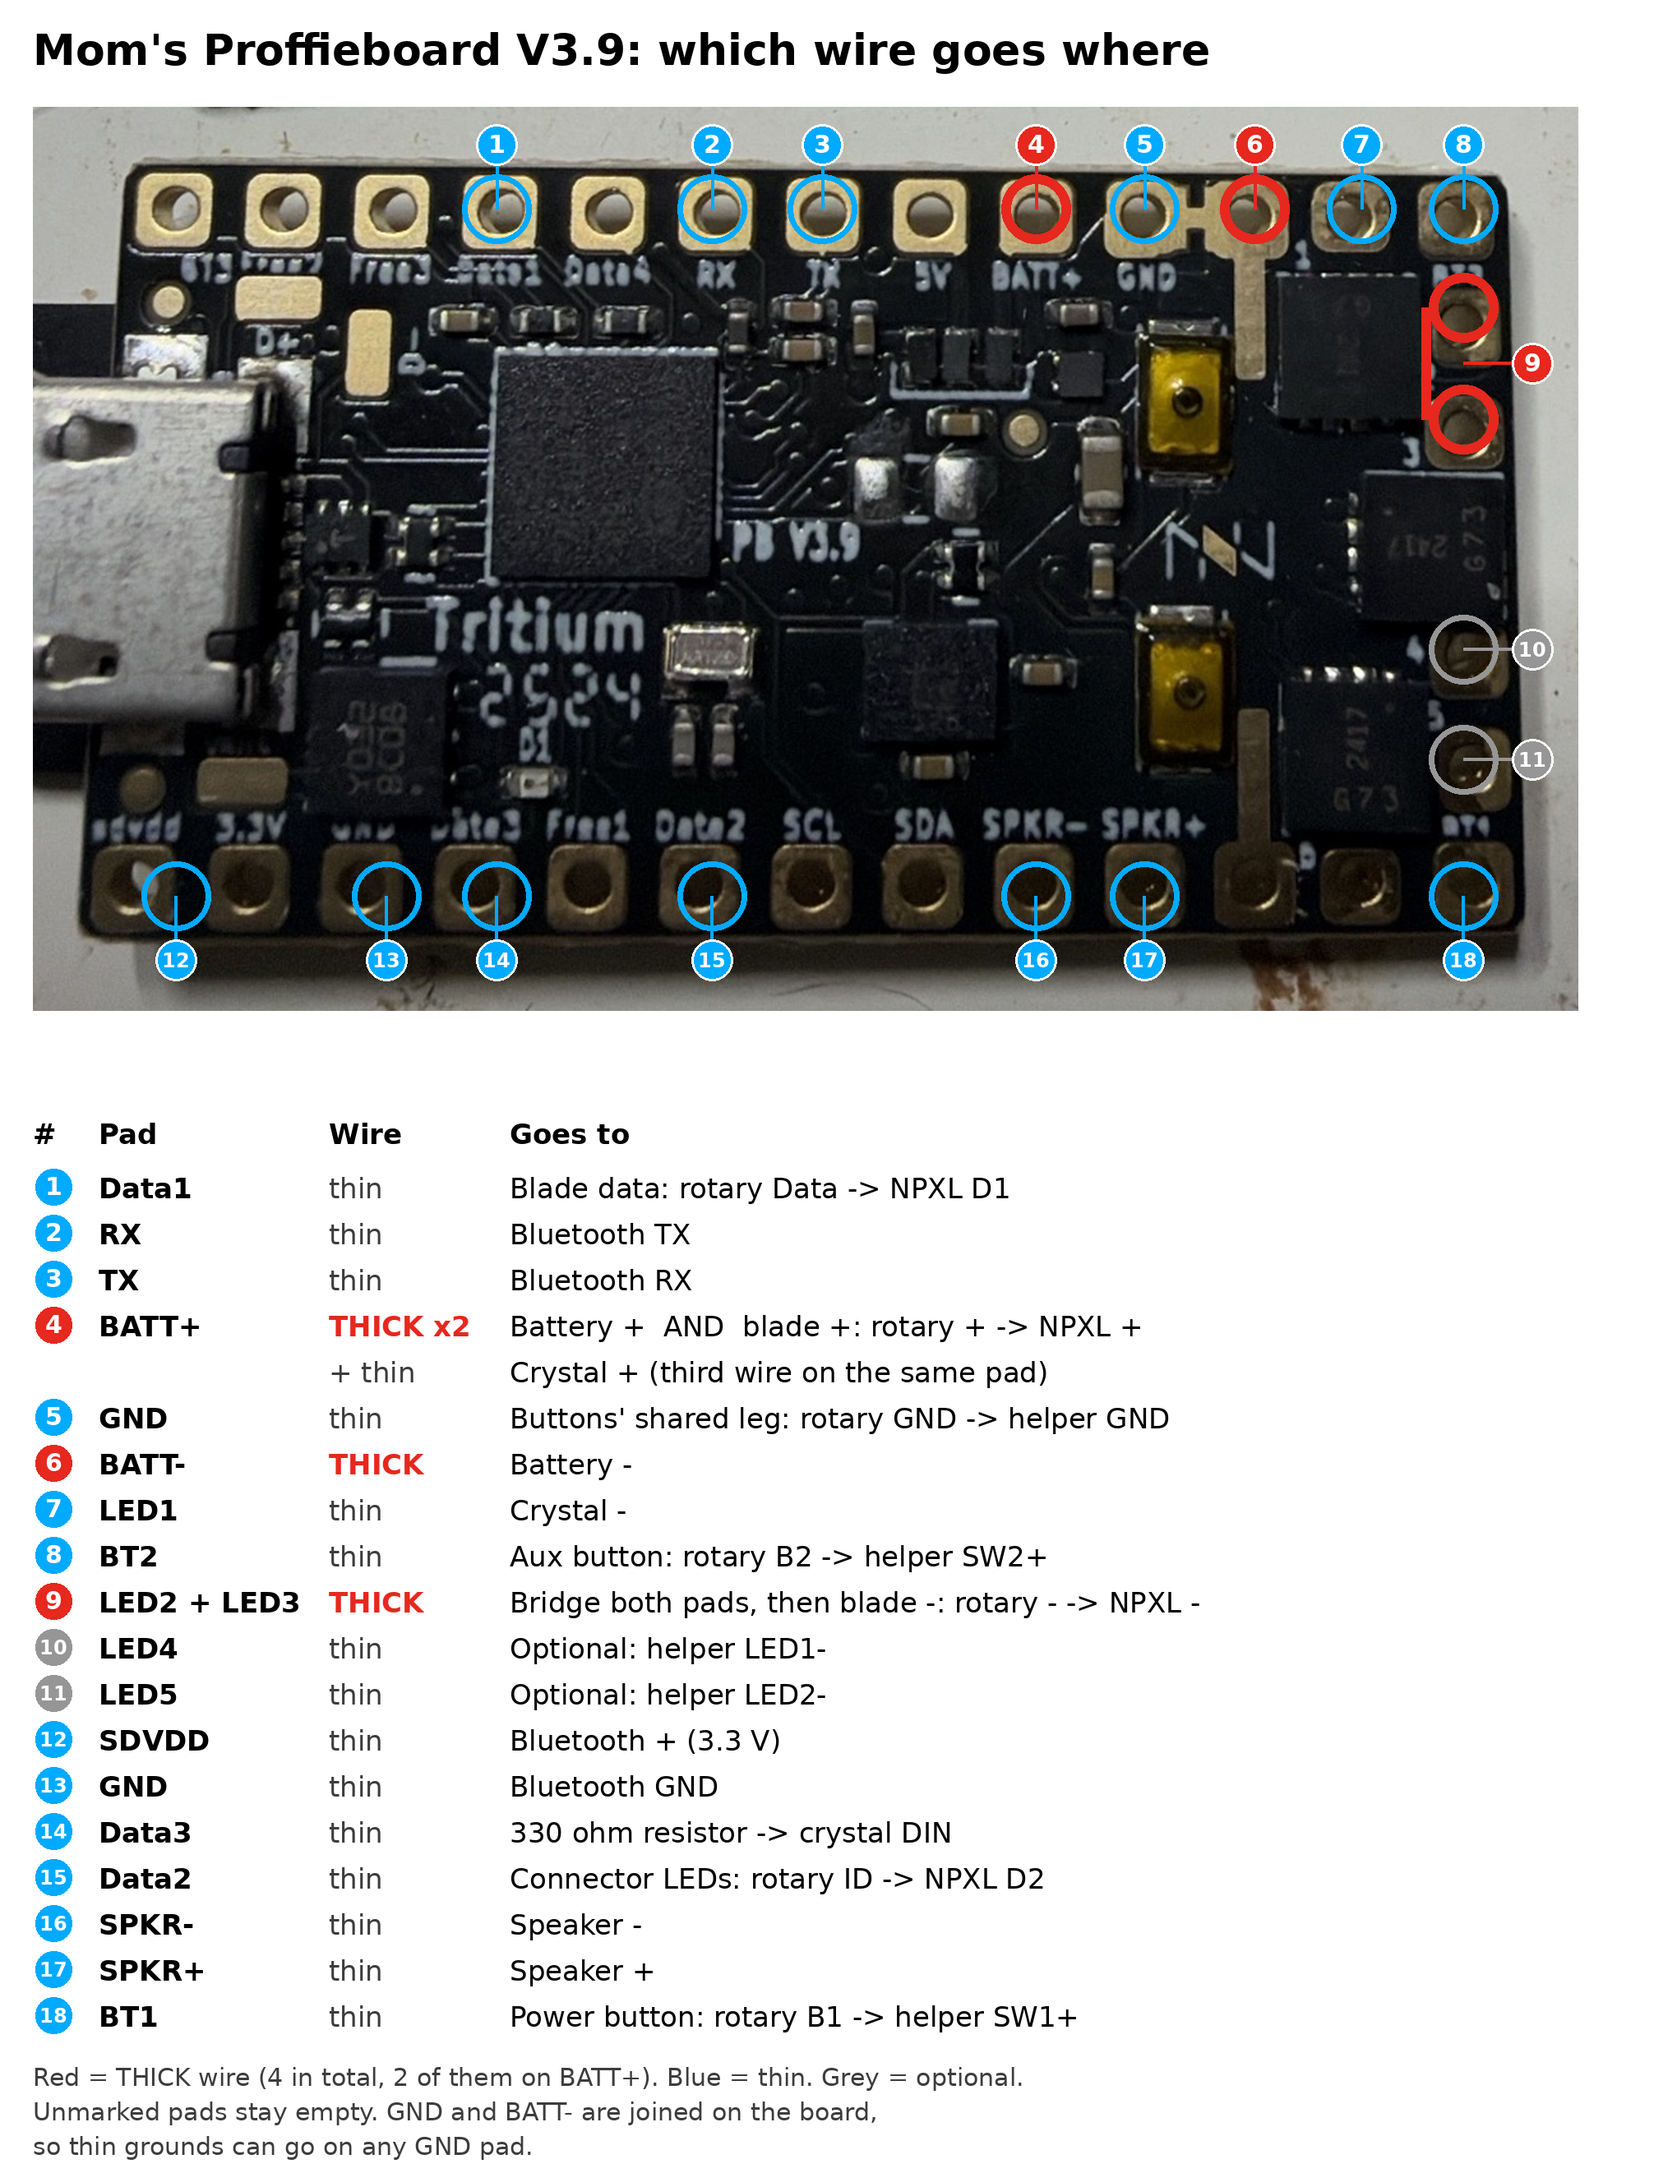
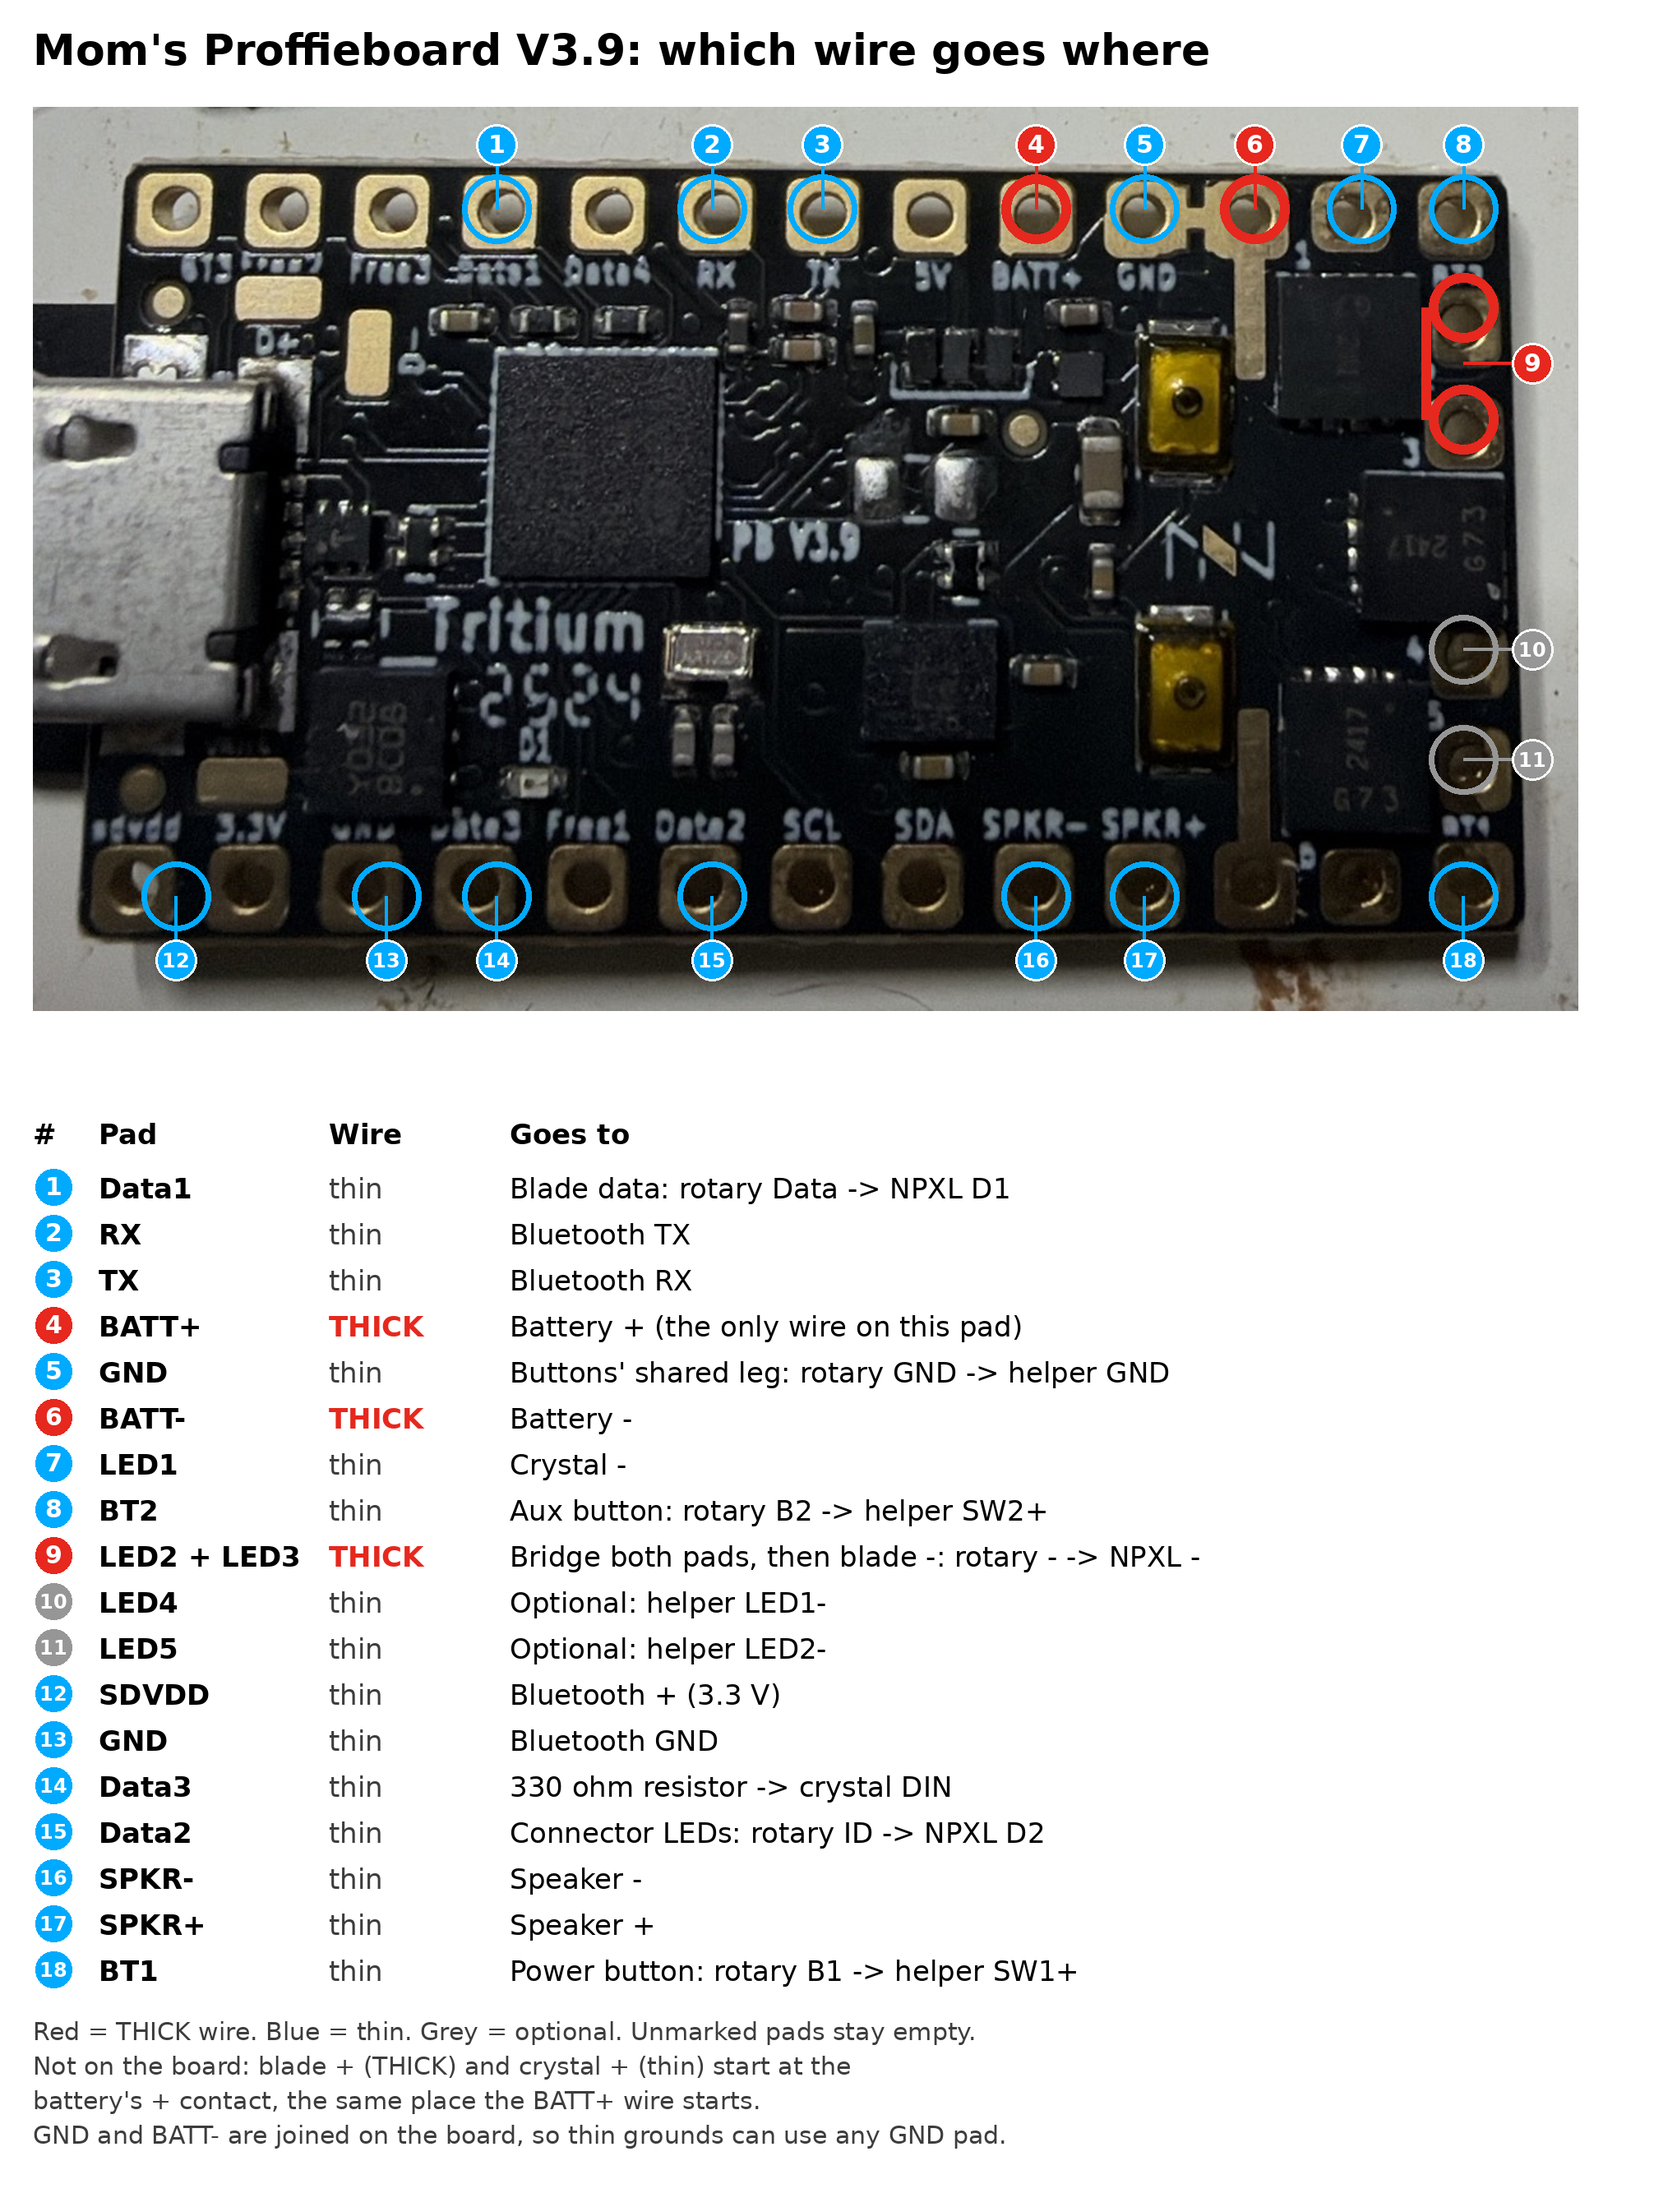
Keep one wire on BATT+ and add wire length guidance
Blade + and crystal + now start at the far end of the BATT+ wire
instead of crowding the BATT+ pad.

Claude-Session: https://claude.ai/code/session_01265pwD5zDbVVSh7CxSi4nL

Changed region(s): [[0.0, 0.062, 0.9574, 0.4652], [0.0, 0.4962, 0.7103, 0.9924], [0.6485, 0.7133, 0.6794, 0.7443]]

diff --git a/saber-wiring/README.md b/saber-wiring/README.md
@@ -58,9 +58,7 @@ Use **thick** wire only where the blade's current flows: the battery in and out,
 
 | Proffieboard pad | Wire | Runs to | Notes |
 | --- | --- | --- | --- |
-| **BATT+** | **Thick** | Battery + | Through the helper board's BATT+ → BRD+ if check 2 says it's in the battery line |
-| **BATT+** | **Thick** | Blade +: rotary **+** → NPXL **+** | A second thick wire on the same pad. If that's too crowded, take blade + straight from the battery's + contact; Shtok's rotary diagram does it that way |
-| **BATT+** | Thin | Crystal chamber **+** | A few LEDs draw very little |
+| **BATT+** | **Thick** | Battery + | The only wire on this pad. Goes through the helper board's BATT+ → BRD+ if check 2 says it's in the battery line |
 | **BATT−** | **Thick** | Battery − | Every LED's current comes back through here |
 | **LED2 + LED3** | **Thick** | Blade −: rotary **−** → NPXL **−** | The two pads are next to each other. Strip enough wire to lay across both and solder them together |
 | **GND** | Thin | Shared leg of both buttons: rotary **GND** → helper **GND** | GND and BATT− are joined on the board, so any GND or BATT− pad works |
@@ -77,8 +75,17 @@ Use **thick** wire only where the blade's current flows: the battery in and out,
 | **SPKR+ / SPKR−** | Thin | Speaker | Under 1 A even at full volume (3 W into 4 Ω) |
 | **LED4 / LED5** | Thin | Helper **LED1− / LED2−** | Optional, after check 3. Easy to add now and trim later |
 
+Two + wires don't go on the Proffieboard at all: **blade +** (thick, to rotary **+** → NPXL **+**) and **crystal +** (thin). Every battery + point in the saber is electrically the same. Solder these two at the far end of the thick BATT+ wire, wherever it finishes:
+
+- At the battery's + contact, or
+- At the helper board's BRD+ pad, if check 2 shows the helper sits in the battery line. That way a switch on the helper cuts them too.
+
+Shtok's rotary diagram feeds the blade + straight from the battery the same way. It also keeps the small BATT+ pad down to one wire.
+
 Tips for long wires you'll trim later:
 
+- **Length:** the chassis-side wires only need to reach the rotary connector's pin board (CHC_M), not the emitter. The hilt side gets its own short wires from the ring board (CHC_F). Cut each wire to reach the far end of the chassis plus about 5 cm (2"). If you can't measure yet, 20 cm (8") each is plenty.
+- **Bench test first:** with the wires long, you can hook up the battery, speaker, buttons and blade connector on the bench, flash the config and test everything before trimming anything.
 - Use red and black for the thick + and − wires.
 - Give each thin wire a different colour and write down which colour is on which pad. Once the wires are trimmed and bundled, that list is the only way to tell them apart.
 - Tin the pads and the wire ends before you join them.
